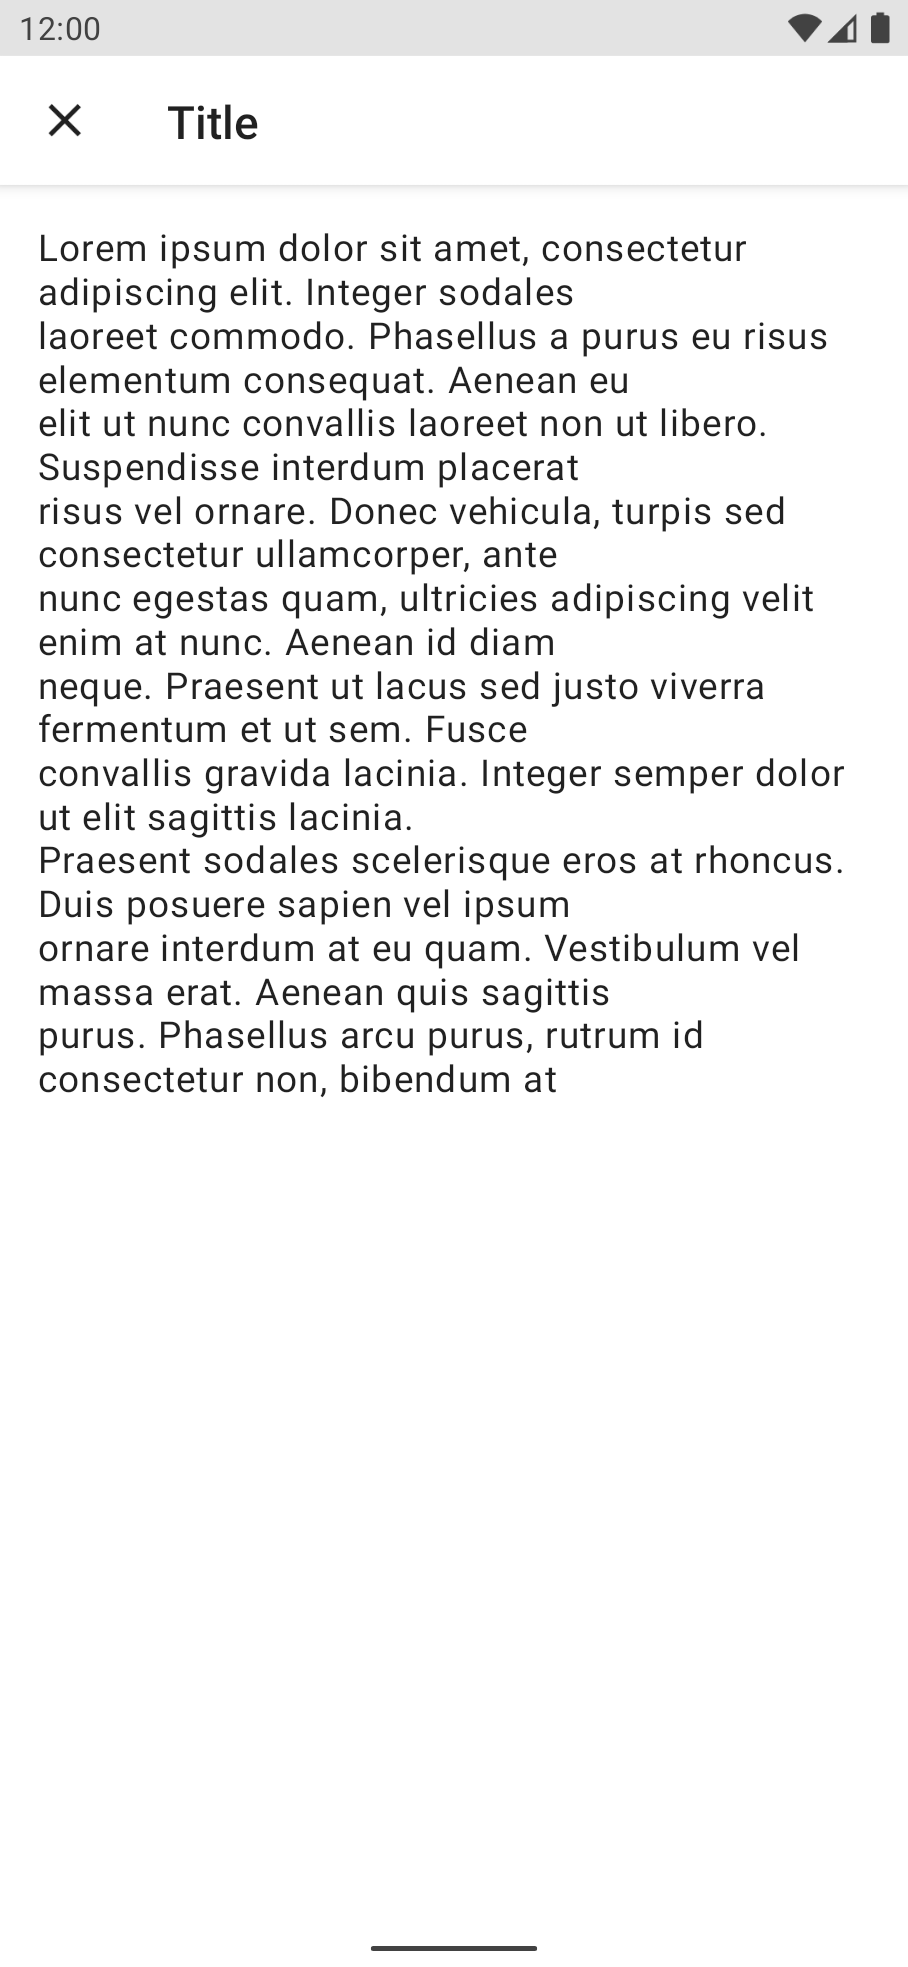
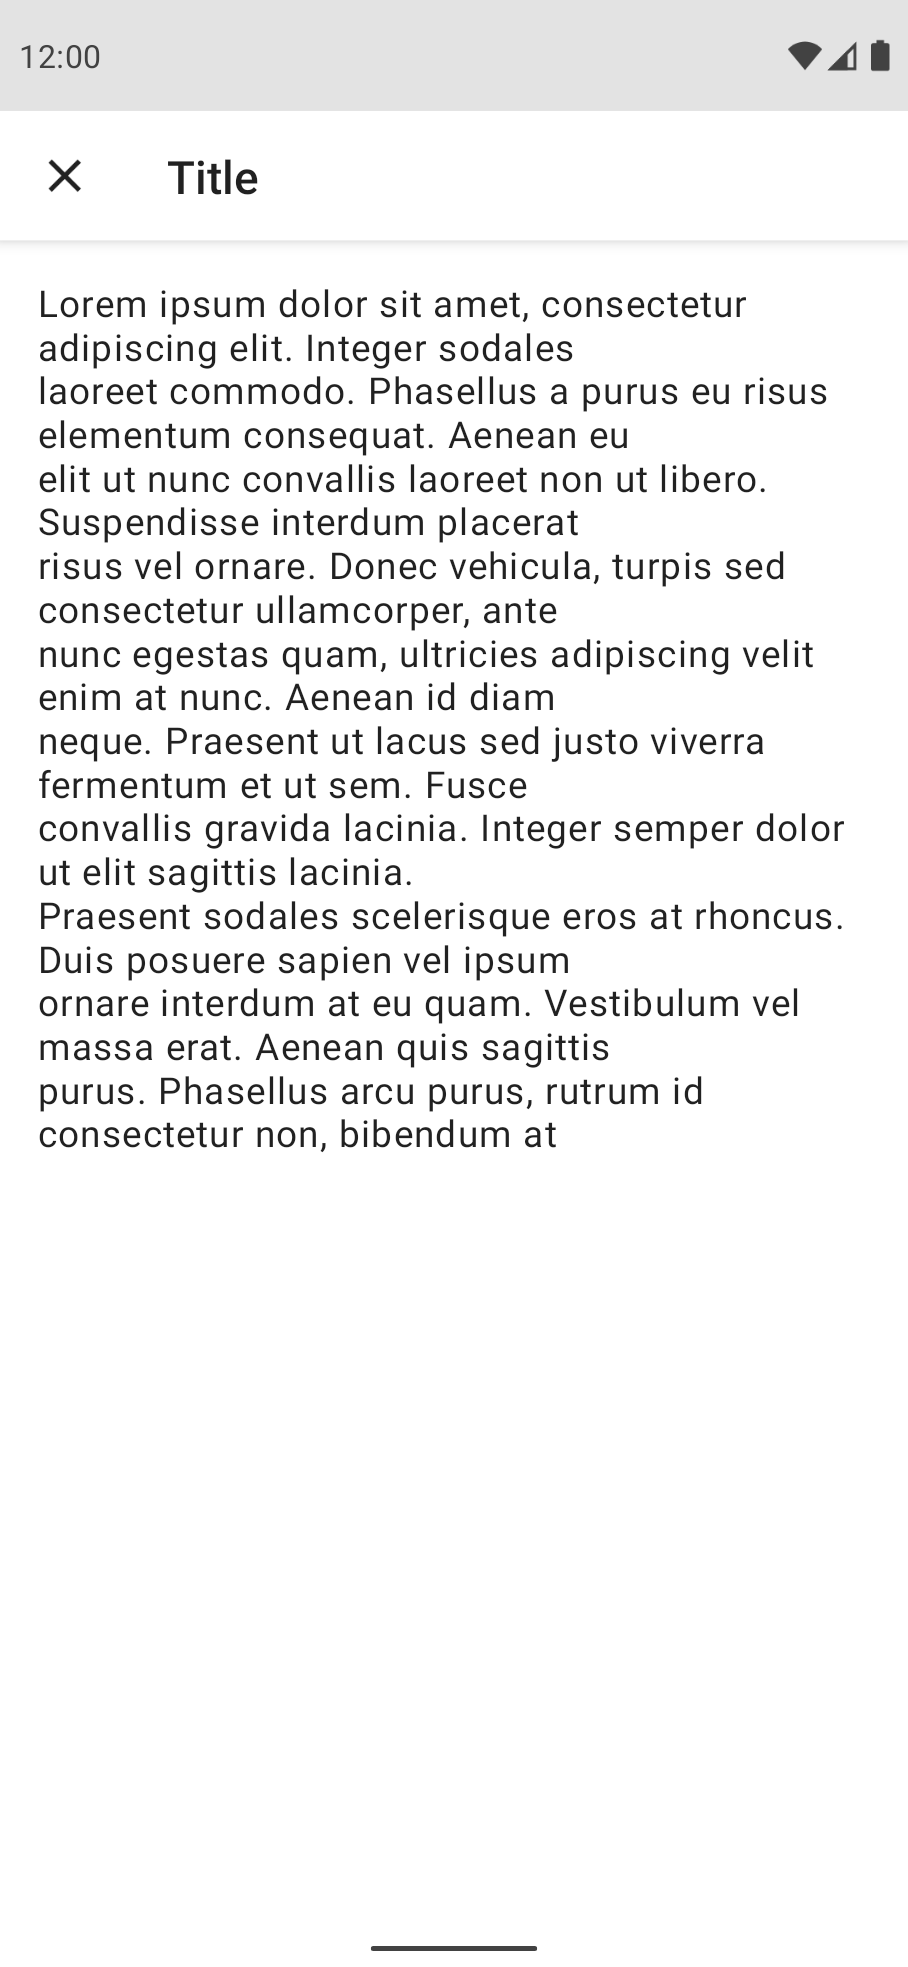
Configurable StatusBar size (#1)

Changed region(s): [[0.0, 0.0, 1.0, 0.5892]]

diff --git a/sample/src/main/java/com/mobnetic/compose/advancedpreview/sample/Sample3.kt b/sample/src/main/java/com/mobnetic/compose/advancedpreview/sample/Sample3.kt
@@ -11,6 +11,7 @@ import androidx.compose.runtime.Composable
 import androidx.compose.ui.Modifier
 import androidx.compose.ui.graphics.Color
 import androidx.compose.ui.tooling.preview.Preview
+import androidx.compose.ui.unit.dp
 import com.mobnetic.compose.advancedpreview.AdvancedPreview
 import com.mobnetic.compose.advancedpreview.Device
 import com.mobnetic.compose.advancedpreview.NavigationBar
@@ -25,6 +26,7 @@ private fun Sample3AdvancedPreview() {
     MaterialTheme {
         AdvancedPreview(
             device = Device(
+                statusBarSize = 48.dp,
                 navigationType = NavigationType.Gesture()
             ),
             statusBar = StatusBar.default(

diff --git a/advancedpreview/src/main/java/com/mobnetic/compose/advancedpreview/Device.kt b/advancedpreview/src/main/java/com/mobnetic/compose/advancedpreview/Device.kt
@@ -6,10 +6,9 @@ import androidx.compose.ui.unit.dp
 class Device(
     val screenWidth: Dp = DefaultScreenWidth,
     val screenHeight: Dp = DefaultScreenHeight,
+    val statusBarSize: Dp = DefaultStatusBarSize,
     val navigationType: NavigationType = NavigationType.ThreeButtons()
-) {
-    val statusBarSize: Dp = DefaultStatusBarSize
-}
+)
 
 sealed class NavigationType(val size: Dp) {
     class ThreeButtons : NavigationType(size = DefaultNavigationBarSizeThreeButtons)

diff --git a/README.md b/README.md
@@ -21,6 +21,7 @@ fun AdvancedPreview(
 
 #### Device
 - Configure screen size using `screenWidth: Dp` and `screenHeight: Dp`.
+- Specify StatusBar height with `statusBarSize: Dp`.
 - Choosing between navigation types using `navigationType` (`ThreeButtons` or `Gesture`).
 
 #### StatusBar / NavigationBar
@@ -66,6 +67,7 @@ private fun SampleScreenPreview() {
 
 #### [Sample3](/sample/src/main/java/com/mobnetic/compose/advancedpreview/sample/Sample3.kt) demonstrates:
 - Light background with dark icons on StatusBar and NavigationBar.
+- Tall StatusBar 
 - Gesture Navigation.
 
 | AdvancedPreview | Standard `@Preview` |
